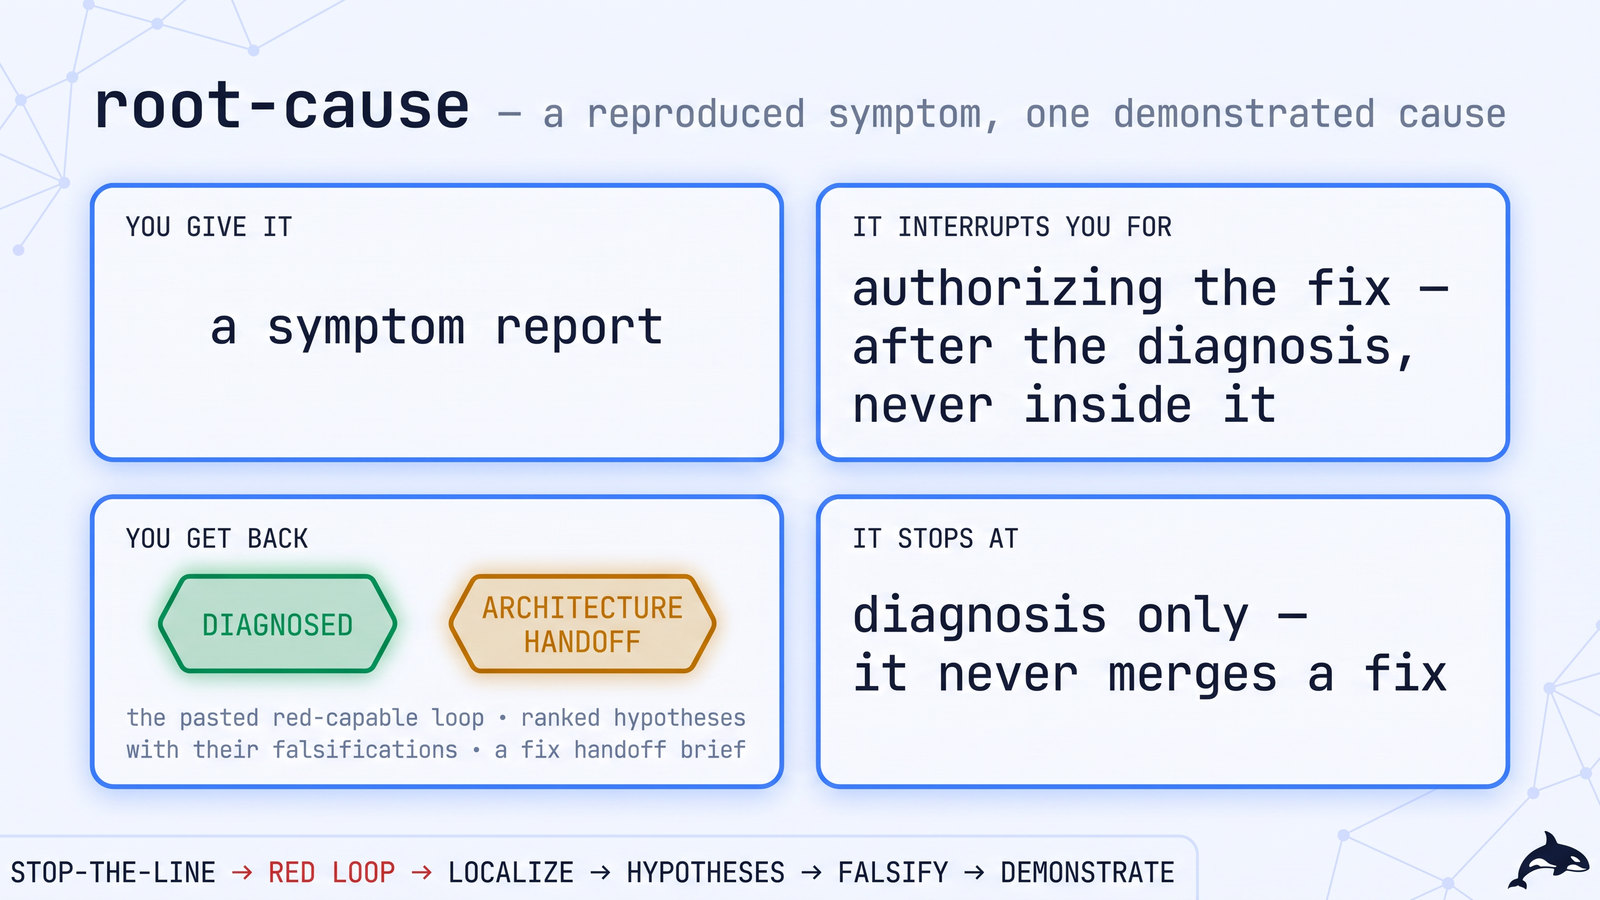
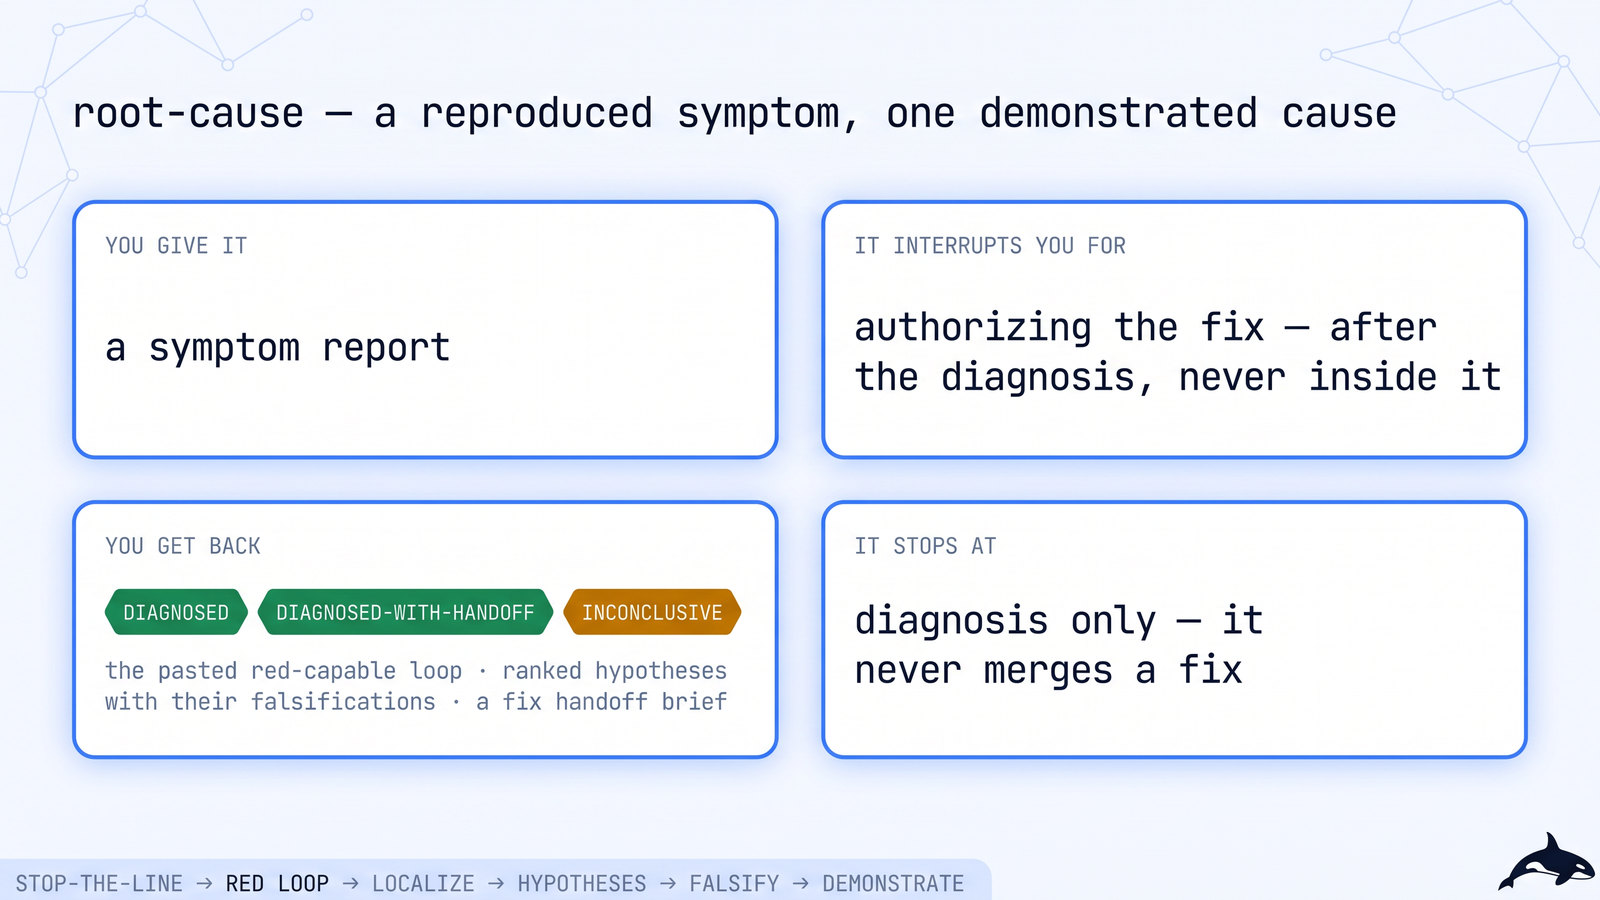
assets: answer the review — canonical terminals on three cards, opt-in replay on the gate diagram, idempotent wiring
map-it now shows MAPPED / MAPPED-WITH-BLOCKED and root-cause shows
DIAGNOSED / DIAGNOSED-WITH-HANDOFF / INCONCLUSIVE, the names their
SKILL.md declares; ship-it names its -WITH-PARKED suffix. The verify-gate
diagram says the negative control is read, and replayed only when
ORCA_EXECUTE_NC is set. wire_docs.py is idempotent: it refreshes alt text
in existing picture blocks and inserts only what is missing. gen.py renders
every dark id before any light id in the same run, and a cached PNG whose
JPEG never landed is re-fitted instead of reported as done.

diff --git a/assets/diagrams/generator/wire_docs.py b/assets/diagrams/generator/wire_docs.py
@@ -25,7 +25,7 @@ NEW_ALT = {
  "artifacts-map": "What a run leaves behind: a ledger with one row per unit; a docs/runs directory holding the report, a manifest per unit and a sha256 inventory; one PR per unit merged into BASE with reviewed_sha equal to head; and a promotion PR from BASE to default left to you",
  "mission-handoffs": "How missions hand off: map-it to ship-it with a frozen map and DAG; root-cause to ship-it or clean-sweep with a fix handoff brief; modernize-it and ship-it to migrate-it for stateful changes; deflake-it and prove-it to clean-sweep for deterministic and surfaced bugs; attest-it to ship-it for remediation; oncall-it to root-cause for telemetry; and a chain harden-it, prove-it, ship-it gated by each verified terminal",
  "proof-ladder": "The proof ladder: doctrine-only, then self-run, then external-run; advancing needs a run report that binds, with a RUN header, a manifest in the run's own directory and an inventory that re-hashes at the named commit; today every mission reads doctrine-only",
- "verify-gate": "The completion gate: the coordinator sets the gate env, a Stop or TaskCompleted hook fires verify-gate.sh, verify.py re-derives scope, review and the negative control, then exit 0 allows or exit 2 blocks, fail-closed; the verdict is advisory inside the worker's own session and sound where CI, MCP-Task or an SDK subprocess owns the env",
+ "verify-gate": "The completion gate: the coordinator sets the gate env, a Stop or TaskCompleted hook fires verify-gate.sh, verify.py re-derives scope and review and reads the negative control, replaying it in a throwaway worktree only when ORCA_EXECUTE_NC is set, then exit 0 allows or exit 2 blocks, fail-closed; the verdict is advisory inside the worker's own session and sound where CI, MCP-Task or an SDK subprocess owns the env",
  "mission-identity": "The six-point mission-identity test: unit of work, per-unit state machine, convergence proof, ordering and isolation, parking and failure semantics, and the oracle; audit findings, tracker issues and doc claims are one mission, clean-sweep, while a perf breach is a different proof and therefore a different mission, speed-it",
 }
 
@@ -38,29 +38,45 @@ def picture(prefix, name, alt, width):
             '  </picture>\n</p>')
 
 IMG = re.compile(r'<p align="center">\n  <img src="((?:\.\./)*)assets/diagrams/([A-Za-z0-9/_-]+)\.jpg" alt="([^"]*)" width="(\d+)">\n</p>')
+PIC = re.compile(r'<p align="center">\n  <picture>\n    <source media="\(prefers-color-scheme: dark\)" srcset="((?:\.\./)*)assets/diagrams/([A-Za-z0-9/_-]+)\.jpg">\n'
+                 r'    <source media="\(prefers-color-scheme: light\)" srcset="[^"]*">\n    <img src="[^"]*" alt="([^"]*)" width="(\d+)">\n  </picture>\n</p>')
+
+def _alt_for(name, alt):
+    base = name.split("/")[-1]
+    if name.startswith("missions/") and base in CONTRACT:
+        return mission_alt(base)
+    return NEW_ALT.get(base, alt)
 
 def convert_existing(text):
+    """Turn bare <img> embeds into picture blocks and refresh the alt text of blocks that already exist."""
     def rep(m):
         prefix, name, alt, width = m.groups()
-        base = name.split("/")[-1]
-        if name.startswith("missions/") and base in CONTRACT:
-            alt = mission_alt(base)
-        return picture(prefix, name, alt, width)
-    return IMG.sub(rep, text)
+        return picture(prefix, name, _alt_for(name, alt), width)
+    return PIC.sub(rep, IMG.sub(rep, text))
+
+def _has(text, block):
+    dark = re.search(r'srcset="([^"]+\.jpg)"', block).group(1)
+    return dark in text
 
 def insert_after(text, anchor, block, doc):
+    if _has(text, block):
+        return text
     assert text.count(anchor) == 1, (doc, anchor[:60], text.count(anchor))
     return text.replace(anchor, anchor + "\n\n" + block, 1)
 
 def insert_before(text, anchor, block, doc):
+    if _has(text, block):
+        return text
     assert text.count(anchor) == 1, (doc, anchor[:60], text.count(anchor))
     return text.replace(anchor, block + "\n\n" + anchor, 1)
 
 DRY = "--dry-run" in sys.argv
 
-def edit(path, fn):
+def edit(path, fn):  # idempotent: a rerun refreshes alt text and inserts only what is missing
     p = REPO / path; t = p.read_text(); n = fn(t)
-    assert n != t, path
+    if n == t:
+        print(f"unchanged {path}")
+        return
     before, after = t.count("<img "), n.count("<img ")
     pics = n.count("<picture>")
     if not DRY:
@@ -70,11 +86,12 @@ def edit(path, fn):
 # --- README -------------------------------------------------------------------------
 def readme(t):
     t = convert_existing(t)
-    ascii_start = t.index("```\n YOU SAY")
-    ascii_end = t.index("```\n", ascii_start + 4) + 4
-    ascii = t[ascii_start:ascii_end].rstrip("\n")
-    t = (t[:ascii_start] + picture("", "you-say", NEW_ALT["you-say"], 1000) + "\n\n"
-         "<details>\n<summary>Text version</summary>\n\n" + ascii + "\n\n</details>\n" + t[ascii_end:])
+    if "assets/diagrams/you-say.jpg" not in t:
+        ascii_start = t.index("```\n YOU SAY")
+        ascii_end = t.index("```\n", ascii_start + 4) + 4
+        ascii = t[ascii_start:ascii_end].rstrip("\n")
+        t = (t[:ascii_start] + picture("", "you-say", NEW_ALT["you-say"], 1000) + "\n\n"
+             "<details>\n<summary>Text version</summary>\n\n" + ascii + "\n\n</details>\n" + t[ascii_end:])
     t = insert_before(t, "Two workflows are the **same mission** only if they share all six of:",
         "Missions also hand work to one another, each handoff a separately authorized run:\n\n"
         + picture("", "mission-handoffs", NEW_ALT["mission-handoffs"], 900), "README")
@@ -105,6 +122,7 @@ def getting_started(t):
     return t
 
 def verify_gate(t):
+    t = convert_existing(t)
     return insert_before(t, "## Install paths, and which ones carry the gate",
         picture("../", "verify-gate", NEW_ALT["verify-gate"], 820), "verify-gate")
 

diff --git a/assets/diagrams/generator/gen.py b/assets/diagrams/generator/gen.py
@@ -87,7 +87,13 @@ def one(spec, size, raw_dir, force, attempts=3):
     raw_path = raw_dir / f"{sid}.png"
     out_path = REPO / spec["out"]
     if raw_path.exists() and not force:
-        return {"id": sid, "status": "cached", "raw": str(raw_path)}
+        if out_path.exists():
+            return {"id": sid, "status": "cached", "raw": str(raw_path)}
+        w, h = spec["dims"]  # the PNG landed but the JPEG never did: finish it without another API call
+        out_path.parent.mkdir(parents=True, exist_ok=True)
+        fit(Image.open(raw_path), w, h).save(out_path, "JPEG", quality=spec.get("q", 86), optimize=True,
+                                             progressive=True, subsampling=0)
+        return {"id": sid, "status": "refitted", "out": str(out_path.relative_to(REPO))}
     err = None
     for i in range(attempts):
         t0 = time.time()
@@ -130,10 +136,14 @@ def main():
     if missing:
         sys.exit(f"unknown ids: {sorted(missing)}")
     results = []
-    with cf.ThreadPoolExecutor(max_workers=a.workers) as ex:
-        for res in ex.map(lambda s: one(s, a.size, raw_dir, a.force), todo):
-            results.append(res)
-            print(json.dumps(res), flush=True)
+    # A light variant recolors its dark render, so every dark id in the run finishes before any
+    # light id starts; otherwise "--only x,x-light" could recolor the previous dark JPEG.
+    phases = [[s for s in todo if not s.get("from")], [s for s in todo if s.get("from")]]
+    for phase in phases:
+        with cf.ThreadPoolExecutor(max_workers=a.workers) as ex:
+            for res in ex.map(lambda s: one(s, a.size, raw_dir, a.force), phase):
+                results.append(res)
+                print(json.dumps(res), flush=True)
     bad = [r for r in results if r["status"] == "failed"]
     print(f"\n{len(results) - len(bad)} ok, {len(bad)} failed; raw PNGs in {raw_dir}")
     sys.exit(1 if bad else 0)

diff --git a/assets/diagrams/generator/specs_missions.py b/assets/diagrams/generator/specs_missions.py
@@ -37,7 +37,7 @@ m("ship-it", "build → review → release",
   "gate 1 — confirm the frozen spec · gate 2 — merge the promotion PR",
   [("BUILT", G), ("PROMOTION_READY", G), ("RELEASED", X), ("DEPLOYED_AND_VERIFIED", X)],
   "slice PRs on BASE · a promotion PR with a traceability table · an evidence manifest per unit",
-  "the highest release state you authorized — it never merges to the default branch itself",
+  "the highest release state you authorized, suffixed -WITH-PARKED when units were parked with your approval — it never merges to the default branch itself",
   "FREEZE → DECOMPOSE → BUILD → REVIEW → PROVE → LAND → RELEASE"),
 
 m("clean-sweep", "a backlog exhausted to zero, PR per finding",
@@ -99,15 +99,15 @@ m("review-it", "a read-only, SHA-bound GO / NO-GO",
 m("map-it", "a foggy goal charted into a frozen map",
   "a goal too foggy to spec",
   "every decision ticket, one per session · the freeze",
-  [("FROZEN MAP + DAG", G)],
-  "decision tickets · a frozen spec · a verified Orca DAG that ship-it dispatches unchanged",
+  [("MAPPED", G), ("MAPPED-WITH-BLOCKED", A)],
+  "a frozen map + verified Orca DAG that ship-it dispatches unchanged · decision tickets · a frozen spec",
   "no production code — decisions, not deliverables",
   "NAME → CHART → CLEAR THE FRONTIER → FREEZE → PREPARE THE DAG"),
 
 m("root-cause", "a reproduced symptom, one demonstrated cause",
   "a symptom report",
   "authorizing the fix — after the diagnosis, never inside it",
-  [("DIAGNOSED", G), ("ARCHITECTURE HANDOFF", A)],
+  [("DIAGNOSED", G), ("DIAGNOSED-WITH-HANDOFF", G), ("INCONCLUSIVE", A)],
   "the pasted red-capable loop · ranked hypotheses with their falsifications · a fix handoff brief",
   "diagnosis only — it never merges a fix",
   "STOP-THE-LINE → RED LOOP → LOCALIZE → HYPOTHESES → FALSIFY → DEMONSTRATE"),

diff --git a/assets/diagrams/generator/specs_new.py b/assets/diagrams/generator/specs_new.py
@@ -75,7 +75,7 @@ Right side, a note with an amber marker: today every mission reads doctrine-only
 Footer, small, centred: a mission is never presented as more proven than its evidence — validate.py enforces the field"""),
 
 n("verify-gate", """Content: the completion gate and its trust boundary.
-Top row, left to right, joined by arrows: a box: the coordinator sets the gate env (caption: ORCA_MANIFEST · contract source + digest · unit class) → a box: Stop / TaskCompleted hook fires verify-gate.sh → a box: verify.py re-derives (caption: scope from the frozen contract · review from GitHub · negative control replayed in a throwaway worktree) → two outcome boxes stacked: a green one: exit 0 — allow, and a red one: exit 2 — BLOCK, with feedback
+Top row, left to right, joined by arrows: a box: the coordinator sets the gate env (caption: ORCA_MANIFEST · contract source + digest · unit class) → a box: Stop / TaskCompleted hook fires verify-gate.sh → a box: verify.py re-derives (caption: scope from the frozen contract · review from GitHub · negative control read, or replayed in a throwaway worktree when ORCA_EXECUTE_NC is set) → two outcome boxes stacked: a green one: exit 0 — allow, and a red one: exit 2 — BLOCK, with feedback
 Caption under the row: fail-closed — a missing manifest, a missing contract, or a verifier error blocks
 Bottom half, header: WHERE THE VERDICT IS SOUND, two cards side by side:
 Card 1, amber outline, header: native hook, inside the worker's own session, body: the worker can set ORCA_* itself — ADVISORY, defence in depth

diff --git a/docs/missions/ship-it.md b/docs/missions/ship-it.md
@@ -16,7 +16,7 @@
   <picture>
     <source media="(prefers-color-scheme: dark)" srcset="../../assets/diagrams/missions/ship-it.jpg">
     <source media="(prefers-color-scheme: light)" srcset="../../assets/diagrams/missions/ship-it-light.jpg">
-    <img src="../../assets/diagrams/missions/ship-it-light.jpg" alt="Mission contract for ship-it: you give it an intent, or a frozen spec; it interrupts you for gate 1 — confirm the frozen spec; gate 2 — merge the promotion PR; you get back BUILT or PROMOTION_READY or RELEASED or DEPLOYED_AND_VERIFIED, plus slice PRs on BASE; a promotion PR with a traceability table; an evidence manifest per unit; it stops at the highest release state you authorized — it never merges to the default branch itself; phases FREEZE, DECOMPOSE, BUILD, REVIEW, PROVE, LAND, RELEASE" width="820">
+    <img src="../../assets/diagrams/missions/ship-it-light.jpg" alt="Mission contract for ship-it: you give it an intent, or a frozen spec; it interrupts you for gate 1 — confirm the frozen spec; gate 2 — merge the promotion PR; you get back BUILT or PROMOTION_READY or RELEASED or DEPLOYED_AND_VERIFIED, plus slice PRs on BASE; a promotion PR with a traceability table; an evidence manifest per unit; it stops at the highest release state you authorized, suffixed -WITH-PARKED when units were parked with your approval — it never merges to the default branch itself; phases FREEZE, DECOMPOSE, BUILD, REVIEW, PROVE, LAND, RELEASE" width="820">
   </picture>
 </p>
 

diff --git a/docs/missions/root-cause.md b/docs/missions/root-cause.md
@@ -16,7 +16,7 @@
   <picture>
     <source media="(prefers-color-scheme: dark)" srcset="../../assets/diagrams/missions/root-cause.jpg">
     <source media="(prefers-color-scheme: light)" srcset="../../assets/diagrams/missions/root-cause-light.jpg">
-    <img src="../../assets/diagrams/missions/root-cause-light.jpg" alt="Mission contract for root-cause: you give it a symptom report; it interrupts you for authorizing the fix — after the diagnosis, never inside it; you get back DIAGNOSED or ARCHITECTURE HANDOFF, plus the pasted red-capable loop; ranked hypotheses with their falsifications; a fix handoff brief; it stops at diagnosis only — it never merges a fix; phases STOP-THE-LINE, RED LOOP, LOCALIZE, HYPOTHESES, FALSIFY, DEMONSTRATE" width="820">
+    <img src="../../assets/diagrams/missions/root-cause-light.jpg" alt="Mission contract for root-cause: you give it a symptom report; it interrupts you for authorizing the fix — after the diagnosis, never inside it; you get back DIAGNOSED or DIAGNOSED-WITH-HANDOFF or INCONCLUSIVE, plus the pasted red-capable loop; ranked hypotheses with their falsifications; a fix handoff brief; it stops at diagnosis only — it never merges a fix; phases STOP-THE-LINE, RED LOOP, LOCALIZE, HYPOTHESES, FALSIFY, DEMONSTRATE" width="820">
   </picture>
 </p>
 

diff --git a/docs/missions/map-it.md b/docs/missions/map-it.md
@@ -15,7 +15,7 @@
   <picture>
     <source media="(prefers-color-scheme: dark)" srcset="../../assets/diagrams/missions/map-it.jpg">
     <source media="(prefers-color-scheme: light)" srcset="../../assets/diagrams/missions/map-it-light.jpg">
-    <img src="../../assets/diagrams/missions/map-it-light.jpg" alt="Mission contract for map-it: you give it a goal too foggy to spec; it interrupts you for every decision ticket, one per session; the freeze; you get back FROZEN MAP + DAG, plus decision tickets; a frozen spec; a verified Orca DAG that ship-it dispatches unchanged; it stops at no production code — decisions, not deliverables; phases NAME, CHART, CLEAR THE FRONTIER, FREEZE, PREPARE THE DAG" width="820">
+    <img src="../../assets/diagrams/missions/map-it-light.jpg" alt="Mission contract for map-it: you give it a goal too foggy to spec; it interrupts you for every decision ticket, one per session; the freeze; you get back MAPPED or MAPPED-WITH-BLOCKED, plus a frozen map + verified Orca DAG that ship-it dispatches unchanged; decision tickets; a frozen spec; it stops at no production code — decisions, not deliverables; phases NAME, CHART, CLEAR THE FRONTIER, FREEZE, PREPARE THE DAG" width="820">
   </picture>
 </p>
 

diff --git a/docs/verify-gate.md b/docs/verify-gate.md
@@ -11,7 +11,7 @@ it runs the same `verify.py` no matter which surface fires it.
   <picture>
     <source media="(prefers-color-scheme: dark)" srcset="../assets/diagrams/verify-gate.jpg">
     <source media="(prefers-color-scheme: light)" srcset="../assets/diagrams/verify-gate-light.jpg">
-    <img src="../assets/diagrams/verify-gate-light.jpg" alt="The completion gate: the coordinator sets the gate env, a Stop or TaskCompleted hook fires verify-gate.sh, verify.py re-derives scope, review and the negative control, then exit 0 allows or exit 2 blocks, fail-closed; the verdict is advisory inside the worker's own session and sound where CI, MCP-Task or an SDK subprocess owns the env" width="820">
+    <img src="../assets/diagrams/verify-gate-light.jpg" alt="The completion gate: the coordinator sets the gate env, a Stop or TaskCompleted hook fires verify-gate.sh, verify.py re-derives scope and review and reads the negative control, replaying it in a throwaway worktree only when ORCA_EXECUTE_NC is set, then exit 0 allows or exit 2 blocks, fail-closed; the verdict is advisory inside the worker's own session and sound where CI, MCP-Task or an SDK subprocess owns the env" width="820">
   </picture>
 </p>
 
